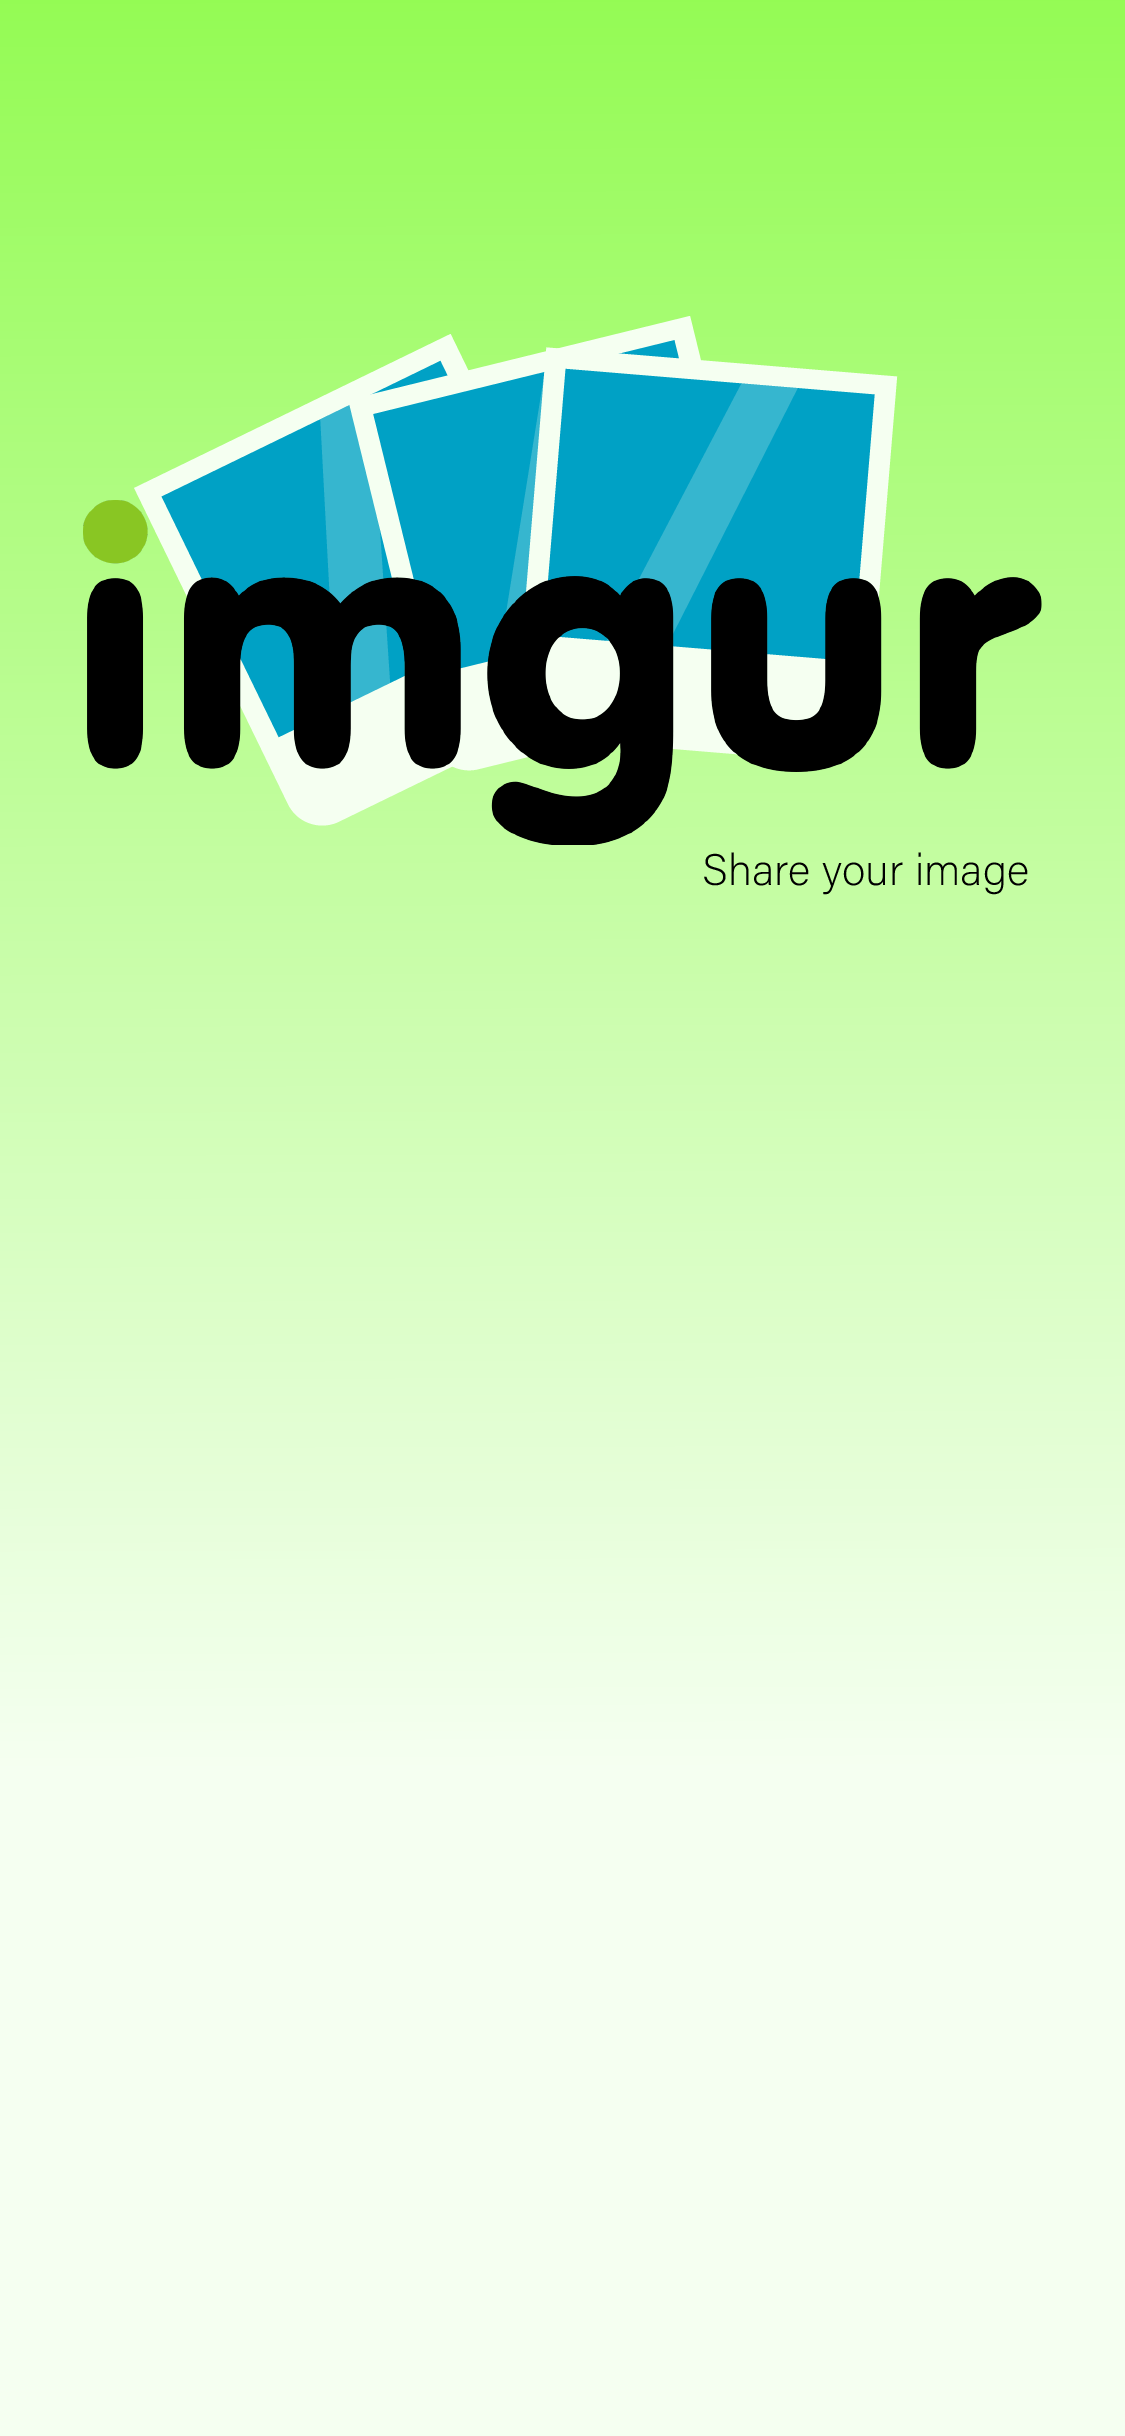
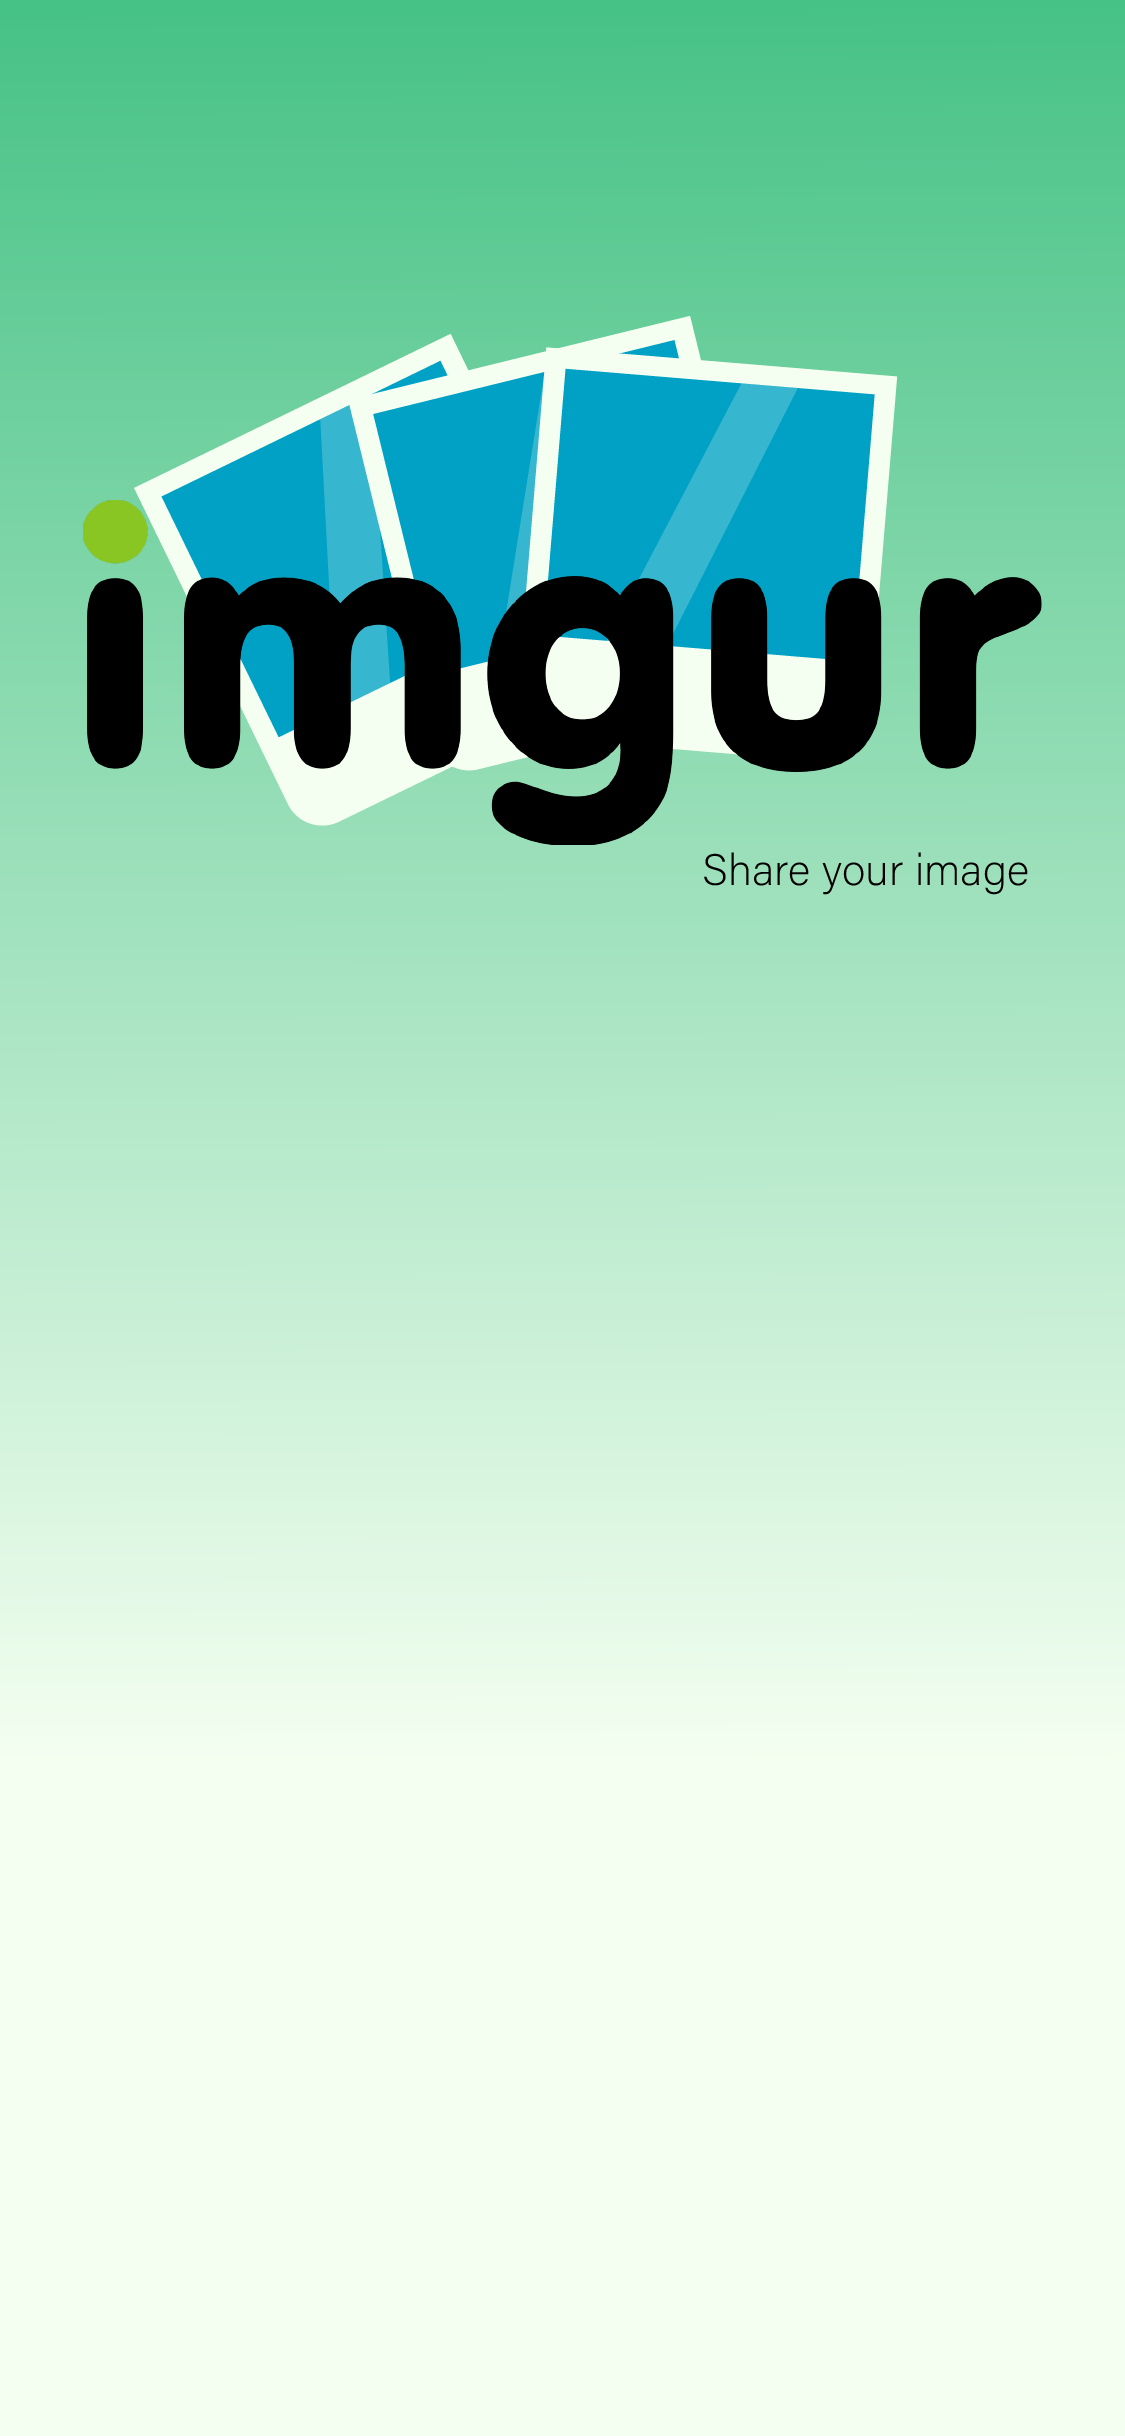
Welcome page changes color

diff --git a/App.js b/App.js
@@ -137,7 +137,7 @@ const styles = StyleSheet.create({
     width: '80%',
     marginBottom: 20,
     height:70,
-    backgroundColor: "#45FA40",
+    backgroundColor: "#1cb36c",
     alignItems: 'center',
     justifyContent: 'center',
     borderRadius: 10,
